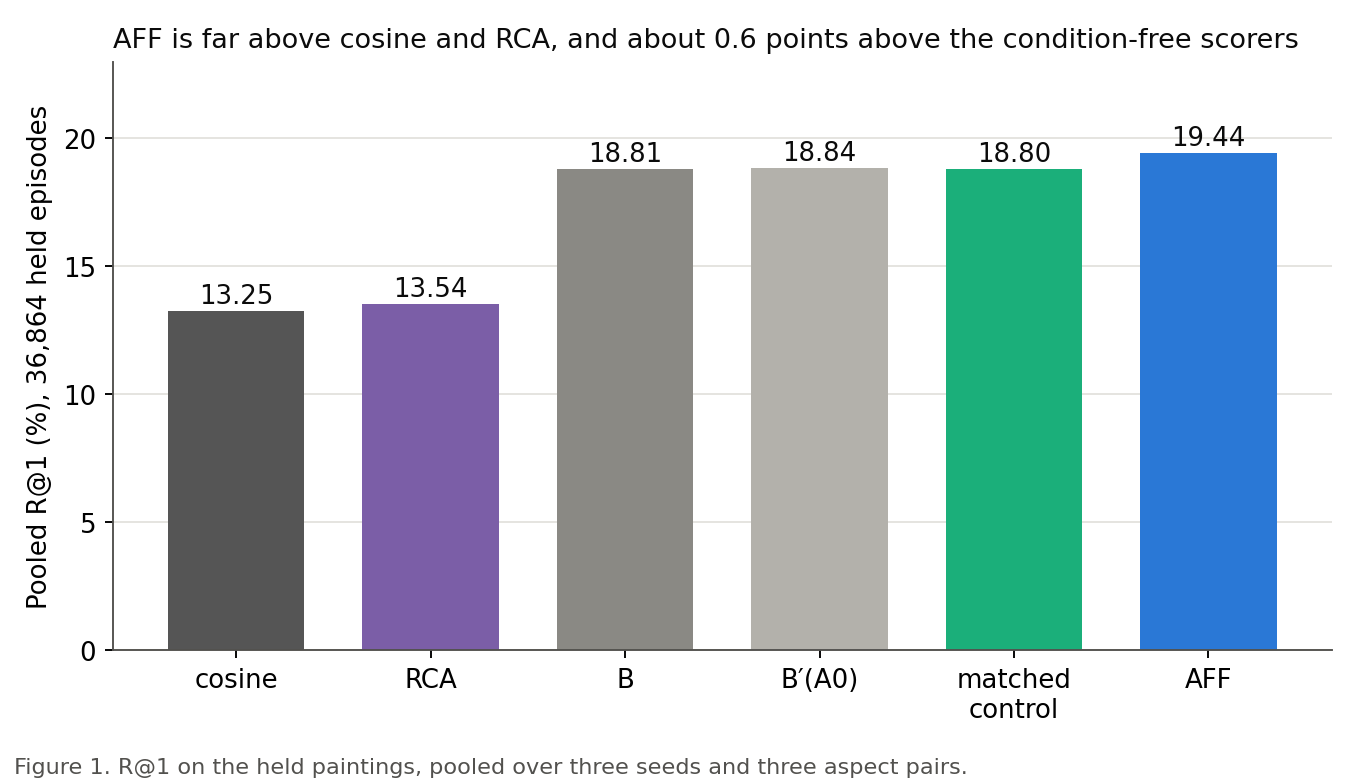
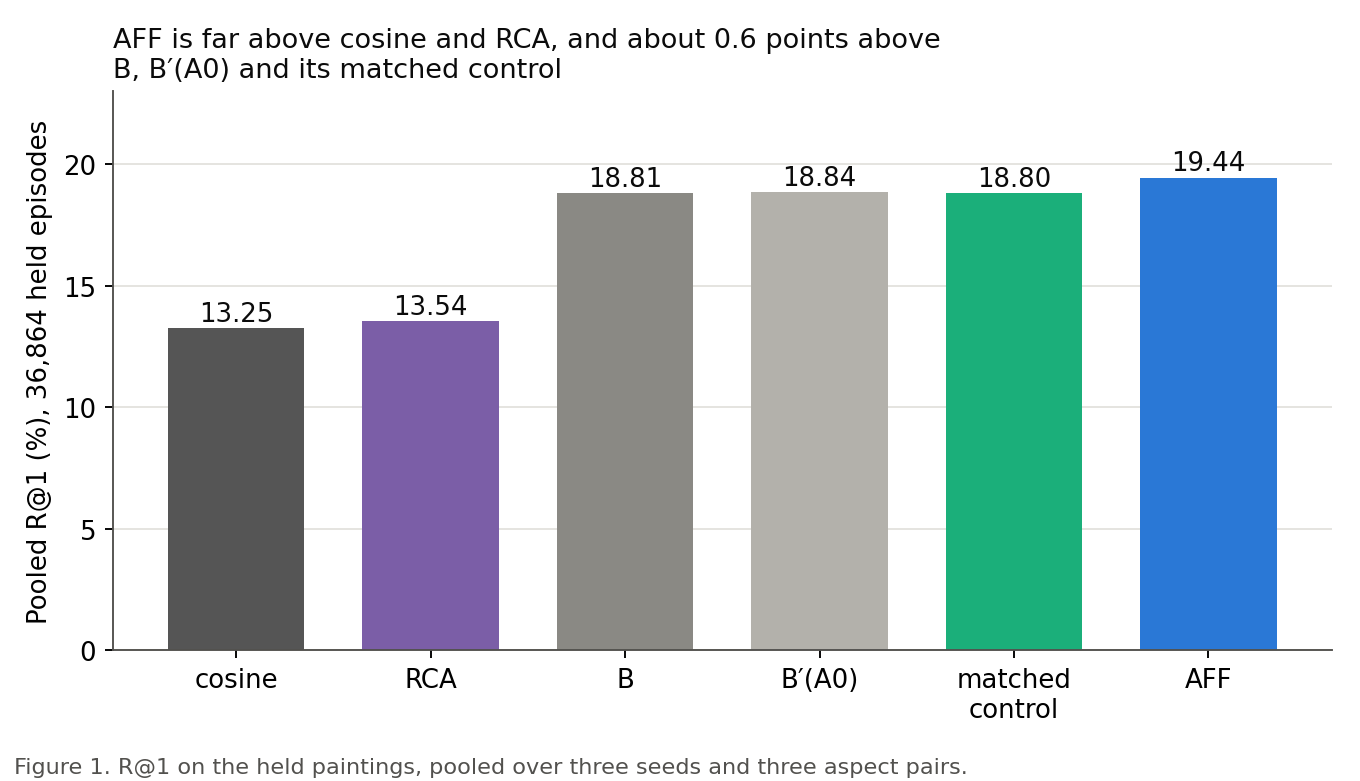
r6 run: user-read report checked (cold read, fidelity check) and fixed; glossary rows for RCA, DTS, Holm
Claude-Session: https://claude.ai/code/session_01M4566a56pWFDuKkL6K3E1h

diff --git a/docs/user_read/assets/2026-10-10_artelingo_held_test/build_figures.py b/docs/user_read/assets/2026-10-10_artelingo_held_test/build_figures.py
@@ -25,7 +25,7 @@ ax.set_xticks(range(len(rows)), [r[0] for r in rows])
 ax.set_ylabel("Pooled R@1 (%), 36,864 held episodes")
 ax.set_ylim(0, 23)
 ax.yaxis.grid(True, color=GRID); ax.set_axisbelow(True)
-ax.set_title("AFF is far above cosine and RCA, and about 0.6 points above the condition-free scorers",
+ax.set_title("AFF is far above cosine and RCA, and about 0.6 points above\nB, B′(A0) and its matched control",
              fontsize=11.5, loc="left", color=INK)
 fig.text(0.01, 0.01, "Figure 1. R@1 on the held paintings, pooled over three seeds and three aspect pairs.",
          fontsize=9.5, color=INK2)
@@ -35,14 +35,15 @@ plt.close(fig)
 
 # Figure 2: per-pair margin over B'(A0), AFF minus it (full report, Analysis table 1 and Results brief)
 pairs = [("emotion × style\n(held)", 0.59, 0.35, 0.83, AFF), ("emotion × genre\n(held)", 1.64, 1.40, 1.90, AFF),
-         ("style × genre\n(held)", -0.43, -0.65, -0.21, AFF), ("style × genre\n(round 3 test)", -0.580, -0.793, -0.363, B)]
+         ("style × genre\n(held)", -0.43, -0.65, -0.21, AFF), ("style × genre\n(round 3)", -0.580, -0.793, -0.363, B)]
 fig, ax = plt.subplots(figsize=(8, 4.4))
 for i, (n, m, lo, hi, c) in enumerate(pairs):
     ax.errorbar(m, i, xerr=[[m - lo], [hi - m]], fmt="o", color=c, capsize=5, lw=2, ms=8)
-    ax.text(hi + 0.06, i, f"{m:+.2f}", va="center", fontsize=11, color=INK)
+    ax.text(*((hi + 0.06, i) if m > 0 else (lo - 0.06, i)), f"{m:+.2f}", va="center",
+            ha="left" if m > 0 else "right", fontsize=11, color=INK)
 ax.axvline(0, color=INK, lw=1.3)
 ax.set_yticks(range(len(pairs)), [p[0] for p in pairs]); ax.invert_yaxis()
-ax.set_xlim(-1.0, 2.25)
+ax.set_xlim(-1.25, 2.25)
 ax.set_xlabel("AFF minus B′(A0), R@1 points (95% interval)")
 ax.xaxis.grid(True, color=GRID); ax.set_axisbelow(True)
 ax.text(0.03, 0.97, "← AFF worse", transform=ax.transAxes, fontsize=10, color=INK2, va="top")

diff --git a/docs/user_read/2026-10-10_artelingo_held_test.md b/docs/user_read/2026-10-10_artelingo_held_test.md
@@ -1,27 +1,35 @@
 # On paintings never used for tuning, affect steering passes its test, but the gain over the plain scorers is small and only pooled
 
-> 10 October 2026. Full report: [ArtELingo held test of AFF](../reports/auto/v2/2026-11-25_artelingo_held_test.md).
+> 10 October 2026. Full report: [ArtELingo held test of AFF](../reports/auto/v2/2026-11-25_artelingo_held_test.md)
+> (its file name carries CoSiR's sequence-number date).
 
 ## Summary
 
 - We ran the paper's final test of affect steering once, on held paintings that nothing was fitted, picked or tuned on.
 - It passed all seven pre-registered checks, so the verdict is GO.
-- Pooled over three aspect pairs it beats the plain scorers by about 0.6 R@1 points, and cosine by 6.19.
-- Against the strongest plain scorer built with style, and against the same reader without the gate, it is not established.
-- Per aspect pair it wins two and loses style × genre, which the next design (design L) targets.
-- The claim is small and pooled; whether to write the paper around it is the decision due this week.
+- Pooled over three aspect pairs it beats the condition-free scorers B and B′(A0) and its own matched control by about
+  0.6 R@1 points, and plain cosine by 6.19.
+- A margin over the strongest condition-free scorer (B′(A1), which adds a style grouping) and over the same reader
+  without the gate (R1) is not established.
+- Per aspect pair it wins two and loses style × genre, which design L, the planned grouping redesign, targets.
+- The test covers one dataset (ArtELingo) and one backbone (CLIP ViT-B/32).
+- The claim is small and pooled; the paper go/no-go on Fri 2026-10-16 decides whether to write the paper around it.
 
 ## How we got here
 
 CoSiR ranks captions for a painting (or paintings for a caption) under an aspect that is never named. In each
 **episode** (one ranking task) a few example pairs share one aspect, such as emotion, style or genre, and contrasting
-pairs share another. The method has to work out which aspect the examples show and rank accordingly. A **reader**
-guesses that aspect from the examples. Affect steering (AFF), chosen in round 3 on development data, adds the reader's
-score only when the reader picks the emotion-like grouping.
+pairs share another. The method has to work out which aspect the examples show (the **condition**) and rank
+accordingly.
 
-Rounds 4 and 5 tried to improve it and were stopped at the development step, so AFF stayed as it was. A claim for the
-paper has to be tested on paintings it has never seen, and the paper go/no-go is on Fri 2026-10-16, with the CVPR
-abstract due 2026-11-10. This round is that test.
+Scores are **R@1**: the share of rankings with the right candidate first, in percentage points. The
+**condition gain** is R@1 with the right condition minus R@1 for the same target with the examples swapped; a
+**condition-free** scorer, which ignores the examples, has a gain of 0.
+
+A **reader** guesses the aspect from the examples. Affect steering (AFF), chosen in round 3 on development data, adds
+the reader's score only when the reader picks the emotion-like grouping. Rounds 4 and 5 read about 10 more variants on
+development data, and AFF stayed the method to test. A claim for the paper has to be tested on paintings it has never
+seen, before the paper go/no-go on Fri 2026-10-16. This round is that test.
 
 ## 1. The held read
 
@@ -29,10 +37,12 @@ abstract due 2026-11-10. This round is that test.
 search, so the paper needs one clean look.
 
 **Idea.** One **held read**: a single scoring of ArtELingo's held paintings (12,281 of them, kept apart from everything
-used to fit, pick or tune), with every weight frozen on the development seed and the decision rule committed before
-the read. We drew 12,288 episodes on each of three new seeds, 36,864 in all. AFF had to beat five scorers (cosine, RCA,
-two condition-free scorers and its own matched control), and its condition gain had to exceed theirs. That makes seven
-checks, tested together with a Holm correction, which keeps the error rate across all seven at the usual level.
+used to fit, pick or tune), with every weight frozen on development data and the decision rule committed before the
+read. We drew 12,288 episodes on each of three new seeds, 36,864 in all.
+
+AFF had to beat five scorers (cosine, RCA, two condition-free scorers and its own matched control), and its condition
+gain had to exceed theirs. That makes seven checks, tested together with a Holm correction, which keeps the error rate
+across all seven at the usual level.
 
 **Did it work.** Yes, with a narrow claim. All seven checks pass, so the verdict is GO. The claim is pooled over the
 three aspect pairs only. The two secondary checks, run after a GO and never changing it, are inconclusive:
@@ -40,19 +50,23 @@ three aspect pairs only. The two secondary checks, run after a GO and never chan
 - against B′(A1), the strongest condition-free scorer (it adds the style grouping), AFF is ahead by +0.14 [-0.03, +0.30];
 - against R1, the same reader without the gate, it is ahead by +0.02 [-0.06, +0.11].
 
-So the test does not show that the affect gate matters. The three seeds draw on nearly the same paintings, so their
-agreement is not replication; the pooled interval already accounts for that. For the paper, the report advises citing
-the wider two-way interval, which also resamples the target paintings (against B′(A0): +0.60 [+0.40, +0.79]).
+So the test does not show that the affect gate matters.
 
-**Key evidence.** The gain over the plain scorers is modest next to the gain over cosine and RCA. The condition gain,
-which is 0 for any scorer that ignores the examples, is +3.06 [+2.87, +3.25] for AFF.
+The three seeds draw on nearly the same paintings, so their
+agreement is not replication. The pooled interval resamples only the anchor paintings (the painting each episode is
+built around), not the candidate and target paintings that recur across episodes. A check that also resamples those
+widens it, and every lower bound stays above zero. For the paper, the report advises citing the wider interval, with
+the target paintings resampled (against B′(A0): +0.60 [+0.40, +0.79]).
 
-![AFF is far above cosine and RCA, and about 0.6 points above the condition-free scorers](assets/2026-10-10_artelingo_held_test/fig1_pooled_r1.png)
+**Key evidence.** The margin over B, B′(A0) and the control is modest next to the margin over cosine and RCA. The
+condition gain, which is 0 for any scorer that ignores the examples, is +3.06 [+2.87, +3.25] for AFF.
 
-*Figure 1. R@1 on the held paintings, pooled over three seeds and three aspect pairs. B′(A1) and R1 are not drawn;
-their margins are in the text above.*
+![AFF is far above cosine and RCA, and about 0.6 points above B, B′(A0) and its matched control](assets/2026-10-10_artelingo_held_test/fig1_pooled_r1.png)
 
-> Full report: Results brief, Results (checks P1 to P7, S1, S2) and Disclosures.
+*Figure 1. R@1 on the held paintings, pooled over three seeds and three aspect pairs. B′(A1) and R1 are not drawn.
+The margins and their 95% intervals are in the text above.*
+
+> Full report: Results brief, Results (the seven checks and the two secondary ones) and Disclosures.
 
 ## 2. Comparators added to make the claim fair
 
@@ -60,11 +74,11 @@ their margins are in the text above.*
 
 **Idea.** We added external comparators, reported but never gating the verdict. DTS describes each aspect in words with
 a language model and scores the words. DTS-N is told the true aspect name, a privileged ceiling variant. FT-LP, FT-LB
-and FT-LoRA are fine-tuned CLIP models. MLLM is a Qwen3-VL-8B reranker, run on seed 52 only.
+and FT-LoRA are fine-tuned CLIP models. MLLM is a Qwen3-VL-8B reranker, run on one of the three seeds (52) only.
 
 **Did it work.** On R@1 and condition gain none comes near AFF. One result changes how the paper must talk. On **swap
 success** (both targets reorder when the condition swaps) the told-name DTS-N and the MLLM are above AFF, and R1 is
-level with it.
+slightly above it (0.17 points).
 
 **Key evidence.** Pooled R@1 with AFF at 19.44, and swap success:
 
@@ -78,24 +92,27 @@ level with it.
 | Swap success | % | AFF minus it |
 |---|---|---|
 | AFF | 11.50 | |
+| R1 | 11.67 | -0.17 [-0.33, -0.01] |
 | DTS-N | 16.43 | -4.93 [-5.29, -4.57] |
 | MLLM (seed 52) | 13.08 | -1.61 [-2.19, -1.01] |
+
+The MLLM's margins are taken on seed 52's episodes only, so they are not the difference of the pooled values.
 
 > Full report: Analysis, "External comparators" and "Swap success".
 
 ## 3. The per-pair picture
 
-**Problem.** A pooled number can hide a pair where the method does harm. Round 3 found one.
+**Problem.** A pooled number can hide a pair where the method does harm. Round 3 found one: style × genre.
 
 **Idea.** The rule requires the per-pair result beside the pooled claim. We split the margin over B′(A0) by aspect
 pair, 12,288 episodes each, after the verdict, so it decides nothing.
 
 **Did it work.** AFF wins two pairs and loses one. The loss on style × genre is of similar size on new paintings as in
-round 3 (-0.43 here, -0.580 there), so it is unlikely to be an accident of one set of paintings. That pair is what
+round 3 (-0.43 here, -0.58 there), so it is unlikely to be an accident of one set of paintings. That pair is what
 design L targets. The claim stays pooled: no per-pair claim is licensed.
 
-**Key evidence.** The same pattern holds against the other comparators; the clearest weakness is on style × genre,
-where AFF is also 1.24 points below B′(A1).
+**Key evidence.** The same pattern, two wins and a loss, holds against B, the matched control and B′(A1); the gap is
+widest against B′(A1), which AFF trails by 1.24 points on style × genre (the full report's per-pair table).
 
 ![AFF wins two aspect pairs and loses style × genre, as in round 3](assets/2026-10-10_artelingo_held_test/fig2_per_pair.png)
 
@@ -110,7 +127,9 @@ This is our view; you decide.
 
 The pooled claim holds: the margins over B, B′(A0) and the matched control are about +0.6 on each seed (+0.58 to
 +0.66), and the intervals stay above zero when candidate or target paintings are resampled too. The seeds share
-paintings, so that agreement is not independent replication. The size is modest, it comes from emotion × style and
+paintings, so that agreement is not independent replication.
+
+The size is modest, it comes from emotion × style and
 emotion × genre, and style × genre loses. We are fairly sure of the pooled sign over B, B′(A0) and the control. We are
 not sure of any margin over B′(A1) or R1, and less sure the margin would survive another dataset.
 
@@ -122,24 +141,29 @@ table beside the pooled claim.
 
 ## Next
 
-**Where things stand.** The read is done and the verdict is GO. The full report has been through its final review; a
-scoped re-review of the fixes may still change a few words. Disclosures about how AFF was found, the DTS tuning and
+**Where things stand.** The read is done and the verdict is GO. The full report has been through its final review,
+a fix wave and a re-review of the fixes. Disclosures about how AFF was found, the DTS tuning and
 the style × genre loss travel with every AFF number.
 
 **Your decisions:**
 
 1. **Your reading of the results** (decision C), at the r6 read chat, before you open our advice above.
-2. **The descriptive-pass fix.** The first descriptive pass stopped because the same phrase had two different language
-   model answers across seeds. We rebuilt the held listings of seeds 53 and 54 with the earlier listings as caches,
-   then finished the pass. The rule does not cover this, so it hands the call to you. It touches only the descriptive
-   DTS rows, never the verdict, which rests on a file written before any DTS input was read. Options: (a) ratify;
-   (b) do not ratify, and the DTS rows are marked unratified.
-3. **The paper go/no-go.** Options: (a) an ArtELingo-centred paper around the small pooled claim, with
-   style × genre shown beside it, no further compute; (b) wait for design L first, which would be a new held read,
-   disclosed as designed after this one; (c) a second dataset or backbone, which needs new data preparation and a new
-   held read.
+2. **The fix in the after-verdict analysis.** That analysis (the descriptive pass) first stopped because the
+   language model gave the same phrase two different answers on different seeds. We re-ran the phrase answers of
+   seeds 53 and 54 so that each phrase has one answer, then finished the pass.
 
-Design L is the next loop whichever you choose.
+   This changed 632 of 5,429 and 750 of
+   5,640 answers, so the DTS rows carry some noise their intervals do not measure; no conclusion depends on it. It
+   touches only the DTS rows of the analysis, never the verdict, which was written before any DTS input was read.
+
+   The rule does not cover this, so the call is yours: ratify the fix or not.
+3. **What next, before the paper go/no-go on Fri 2026-10-16.** The full report's options:
+   - (a) Design L, already chosen as the next loop (you, 2026-10-09): its own spec, a few days of CPU work plus
+     cluster jobs. A design-L read on the held paintings would be a new held read, disclosed as designed after this
+     one.
+   - (b) Write the ArtELingo-centred paper now around this claim, with the style × genre result shown beside it; no
+     compute.
+   - (c) A second dataset or backbone, which needs new data preparation and a new held read.
 
 ## Glossary
 
@@ -152,13 +176,16 @@ Design L is the next loop whichever you choose.
 | R@1 | share of rankings with the right candidate first, in percentage points | R@1 |
 | AFF | affect steering: the reader's score added only when it picks the emotion-like grouping; current best | AFF |
 | R1 | the same reader, with no gate on which grouping it picks | R1 |
-| cosine, RCA | plain CLIP similarity; a condition-aware baseline the report compares against | COS, RCA |
+| cosine | plain CLIP similarity between query and candidate | COS |
+| RCA | relevant component analysis: a classic baseline that re-weights CLIP features using the episode's example pairs, fused with cosine; it uses the condition | RCA |
 | B | the best condition-free scorer before the reader | B |
 | B′(A0) | B rebuilt on the reader's three groupings | B′(A0) |
 | B′(A1) | B′ with the style grouping added: the strongest condition-free scorer | B′(A1) |
 | condition-free scorer | a score that ignores which aspect the examples show | condition-free comparator |
 | matched control | a scorer's own score with only the condition removed | matched control |
-| condition gain | R@1 for the right condition minus R@1 for the swapped one; 0 for condition-free scorers | condition gain |
+| condition | which aspect an episode's examples show | condition a / b |
+| condition gain | R@1 under the right condition minus R@1 for the same target with the examples swapped; 0 for condition-free scorers | condition gain |
+| anchor painting | the painting an episode is built around; the pooled intervals resample these | anchor paintings |
 | swap success | share of episodes where both targets reorder when the condition swaps | swap success |
 | Holm | a correction for testing several checks at once, so the error rate holds across all seven | Holm |
 | DTS, DTS-N | describe-then-score with a language model; DTS-N is told the true aspect name | DTS, DTS-N |

diff --git a/src/test/20261125_artelingo_held_test/20261125_artelingo_held_test_log.md b/src/test/20261125_artelingo_held_test/20261125_artelingo_held_test_log.md
@@ -121,3 +121,4 @@ rule is `DECISION_RULE.md` in this folder (c394b60, SHA-256
 | 2026-10-10 08:29 | **Descriptive pass done** (rule §10.5; 08:10 to 08:29, exit 0): `results/descriptive.json` 13bbcb68886b39eeec07124e6f5c4202599bcad212f45b64311d35e75c9ed952; per seed the rebuilt bundle reproduces the held arrays; external rows DTS, DTS-CF, DTS-N, FT-LP, FT-LB, FT-LoRA on 52 to 54 and MLLM on 52, none missing; value-embedding cache `results/dts_value_embeddings_descriptive.npz` (113 MB). Decides nothing |
 | 2026-10-10 08:49 | Step 9: auto report `docs/reports/auto/v2/2026-11-25_artelingo_held_test.md` drafted (Sonnet subagent) with its index row; **final review** (routing: Codex refused, so Claude subagents): claim review on Opus, **TRUE with fixes** (GO is the rule's outcome, claim text equals rule §4; 6 major and 8 minor report findings on scope and omissions: pooled-only title, B′(A1) and R1 not established, seeds share paintings, two-way target widening 1.39 to 1.45, swap success and PM rows added, the descriptive-pass fix is not covered by the rule and goes to the user to ratify (rule §9 last row), 632 and 750 of seeds 53 and 54's listing answers changed by the rebuild); number re-derivation on Sonnet, about 330 numbers, 1 mismatch (+0.58 to +0.66), P1 to P7 points recomputed from `held_arrays.npz`. Controller checked every new number against `descriptive.json` and the listings, applied the fix wave (bcd74c5); H5's report cell has the link and its purpose cell the rebuilt listings. Scoped re-review and the user-read report next |
 | 2026-10-10 08:52 | Scoped re-review of the fix wave: 4 wording fixes applied (anchor-only clustering, PM label, R1's τ, swap success), six over-long paragraphs left for the next chat; user-read report drafted (unchecked). Storage step: `cluster du` on the three nodes, four rows on `.scratch/pending_deletions.md`, nothing deleted. Chat cut here (context past 200k): `r6 run 5` splits the paragraphs, checks the user-read report and closes |
+| 2026-10-10 08:58 | Step 9 finished (r6 run 5): auto report readability pass, six over-long paragraphs split, no number changed (108b96d). User-read report checks on Claude subagents in parallel: cold read (haiku) and fidelity check (sonnet; no wrong number; 1 high finding, the pooled interval described as covering shared candidate and target paintings, which the report says it does not; 6 medium: R1's swap success, Figure 1's title, the one-dataset caveat, an out-of-date status line, the next-step options, the descriptive-fix options). One fix wave: all findings applied, figures rebuilt (titles, Figure 2's labels), the CVPR abstract date and an unsupported round-4/5 statement dropped (not in the full report); no re-check (default). `GLOSSARY.md` gains RCA, DTS and Holm rows. |

diff --git a/GLOSSARY.md b/GLOSSARY.md
@@ -23,3 +23,6 @@ method-A era (factors, agreement rule, pseudo-partition, KISSME, …) are in App
 | seed 42, fresh seeds | the development episode seed / new episode seeds for a test (constitution C4) |
 | held read | one pre-registered scoring of the held rows by one final method and backbone, ledgered (constitution C5) |
 | describe-then-score comparator | *(new, round 6)* a vision-language model states in a phrase what an episode's supports share and its contrasts lack; CRL (NeurIPS 2025) turns the phrase into a text basis on frozen CLIP, where query and candidates are compared; fused with cosine like every baseline |
+| RCA | relevant component analysis: a classic pair-metric baseline that re-weights CLIP features by the covariance of the episode's example-pair differences (`rca_term`); condition-aware, fused with cosine at a frozen λ like every baseline |
+| DTS, DTS-CF, DTS-N | the describe-then-score comparator, its matched control, and its variant told the true aspect name (a privileged ceiling) |
+| Holm | Holm's step-down correction across a read's checks, holding the family-wise error at the stated level (round 6: one-sided α = 0.025 over P1 to P7) |
